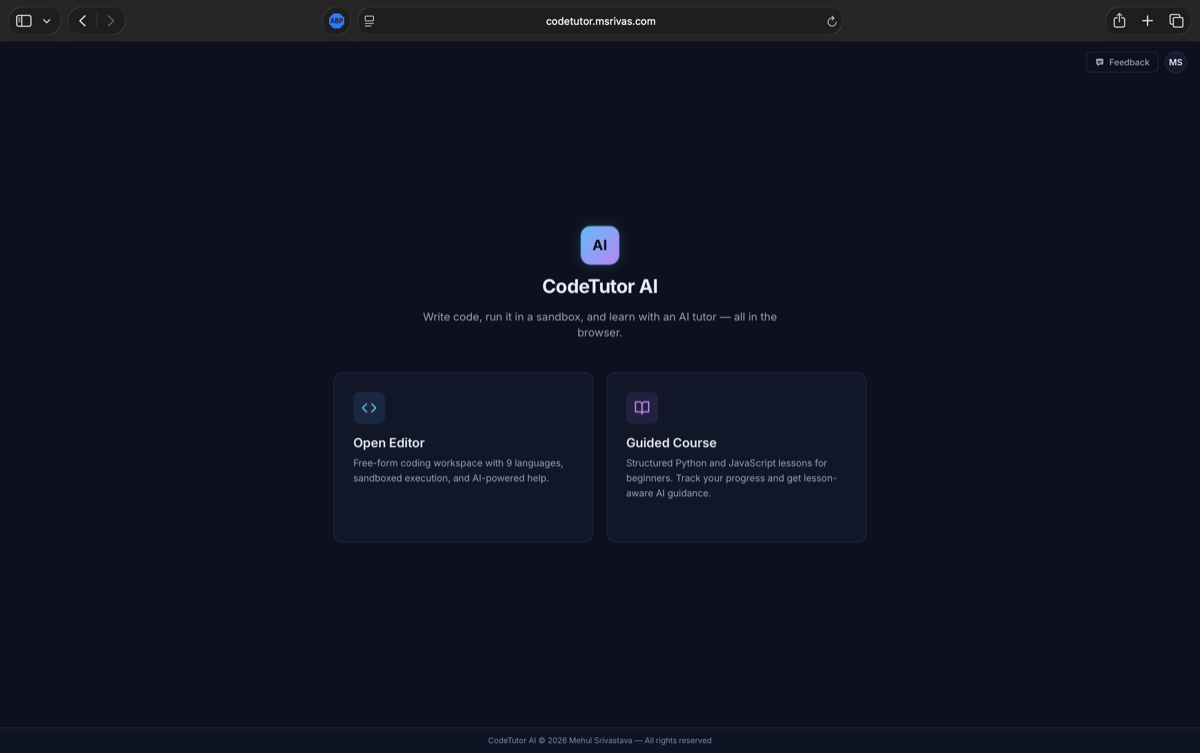
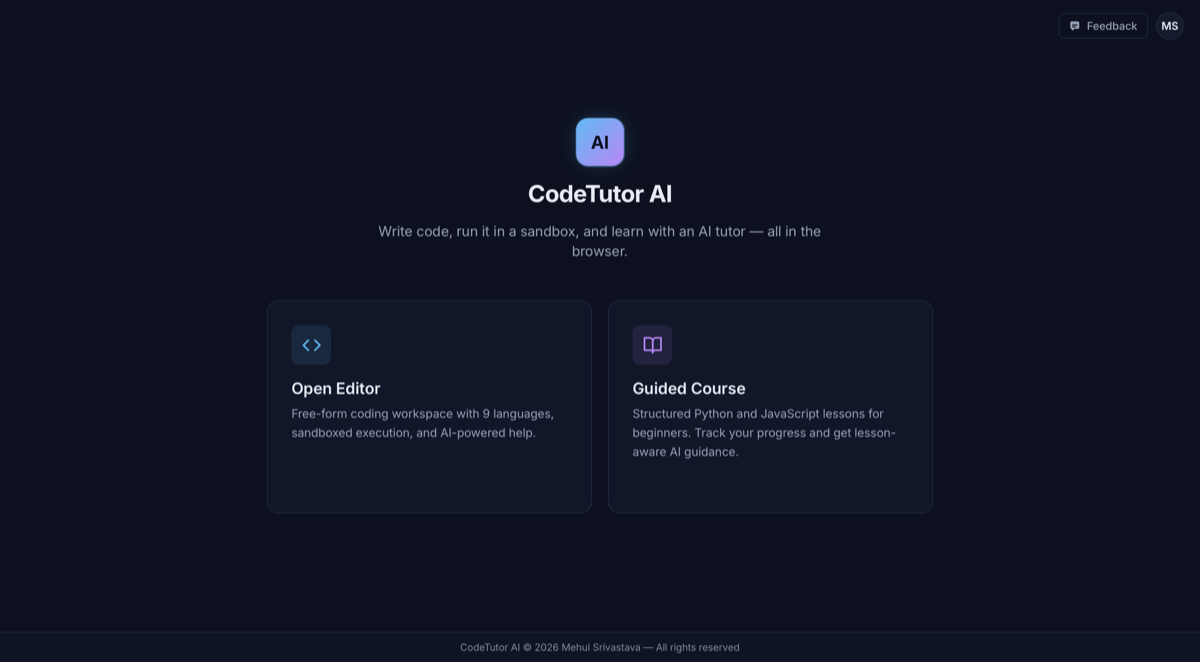
Phase 20-P2: swap OG/preview image for zoomed start-page shot
Previous shot was too wide and the hero text / card copy was unreadable at
thumbnail size. New image (1200×662) zooms in on the branding + two cards so
the value prop scans in one glance on Slack / iMessage unfurls.

diff --git a/frontend/index.html b/frontend/index.html
@@ -23,7 +23,7 @@
     />
     <meta property="og:image" content="https://codetutor.msrivas.com/og-image.png" />
     <meta property="og:image:width" content="1200" />
-    <meta property="og:image:height" content="753" />
+    <meta property="og:image:height" content="662" />
     <meta property="og:image:alt" content="CodeTutor AI start page — Open Editor and Guided Course options with the tagline 'Write code, run it in a sandbox, and learn with an AI tutor — all in the browser.'" />
 
     <!-- Twitter Card. Read by Twitter's crawler and used as fallback by a few other unfurlers -->
